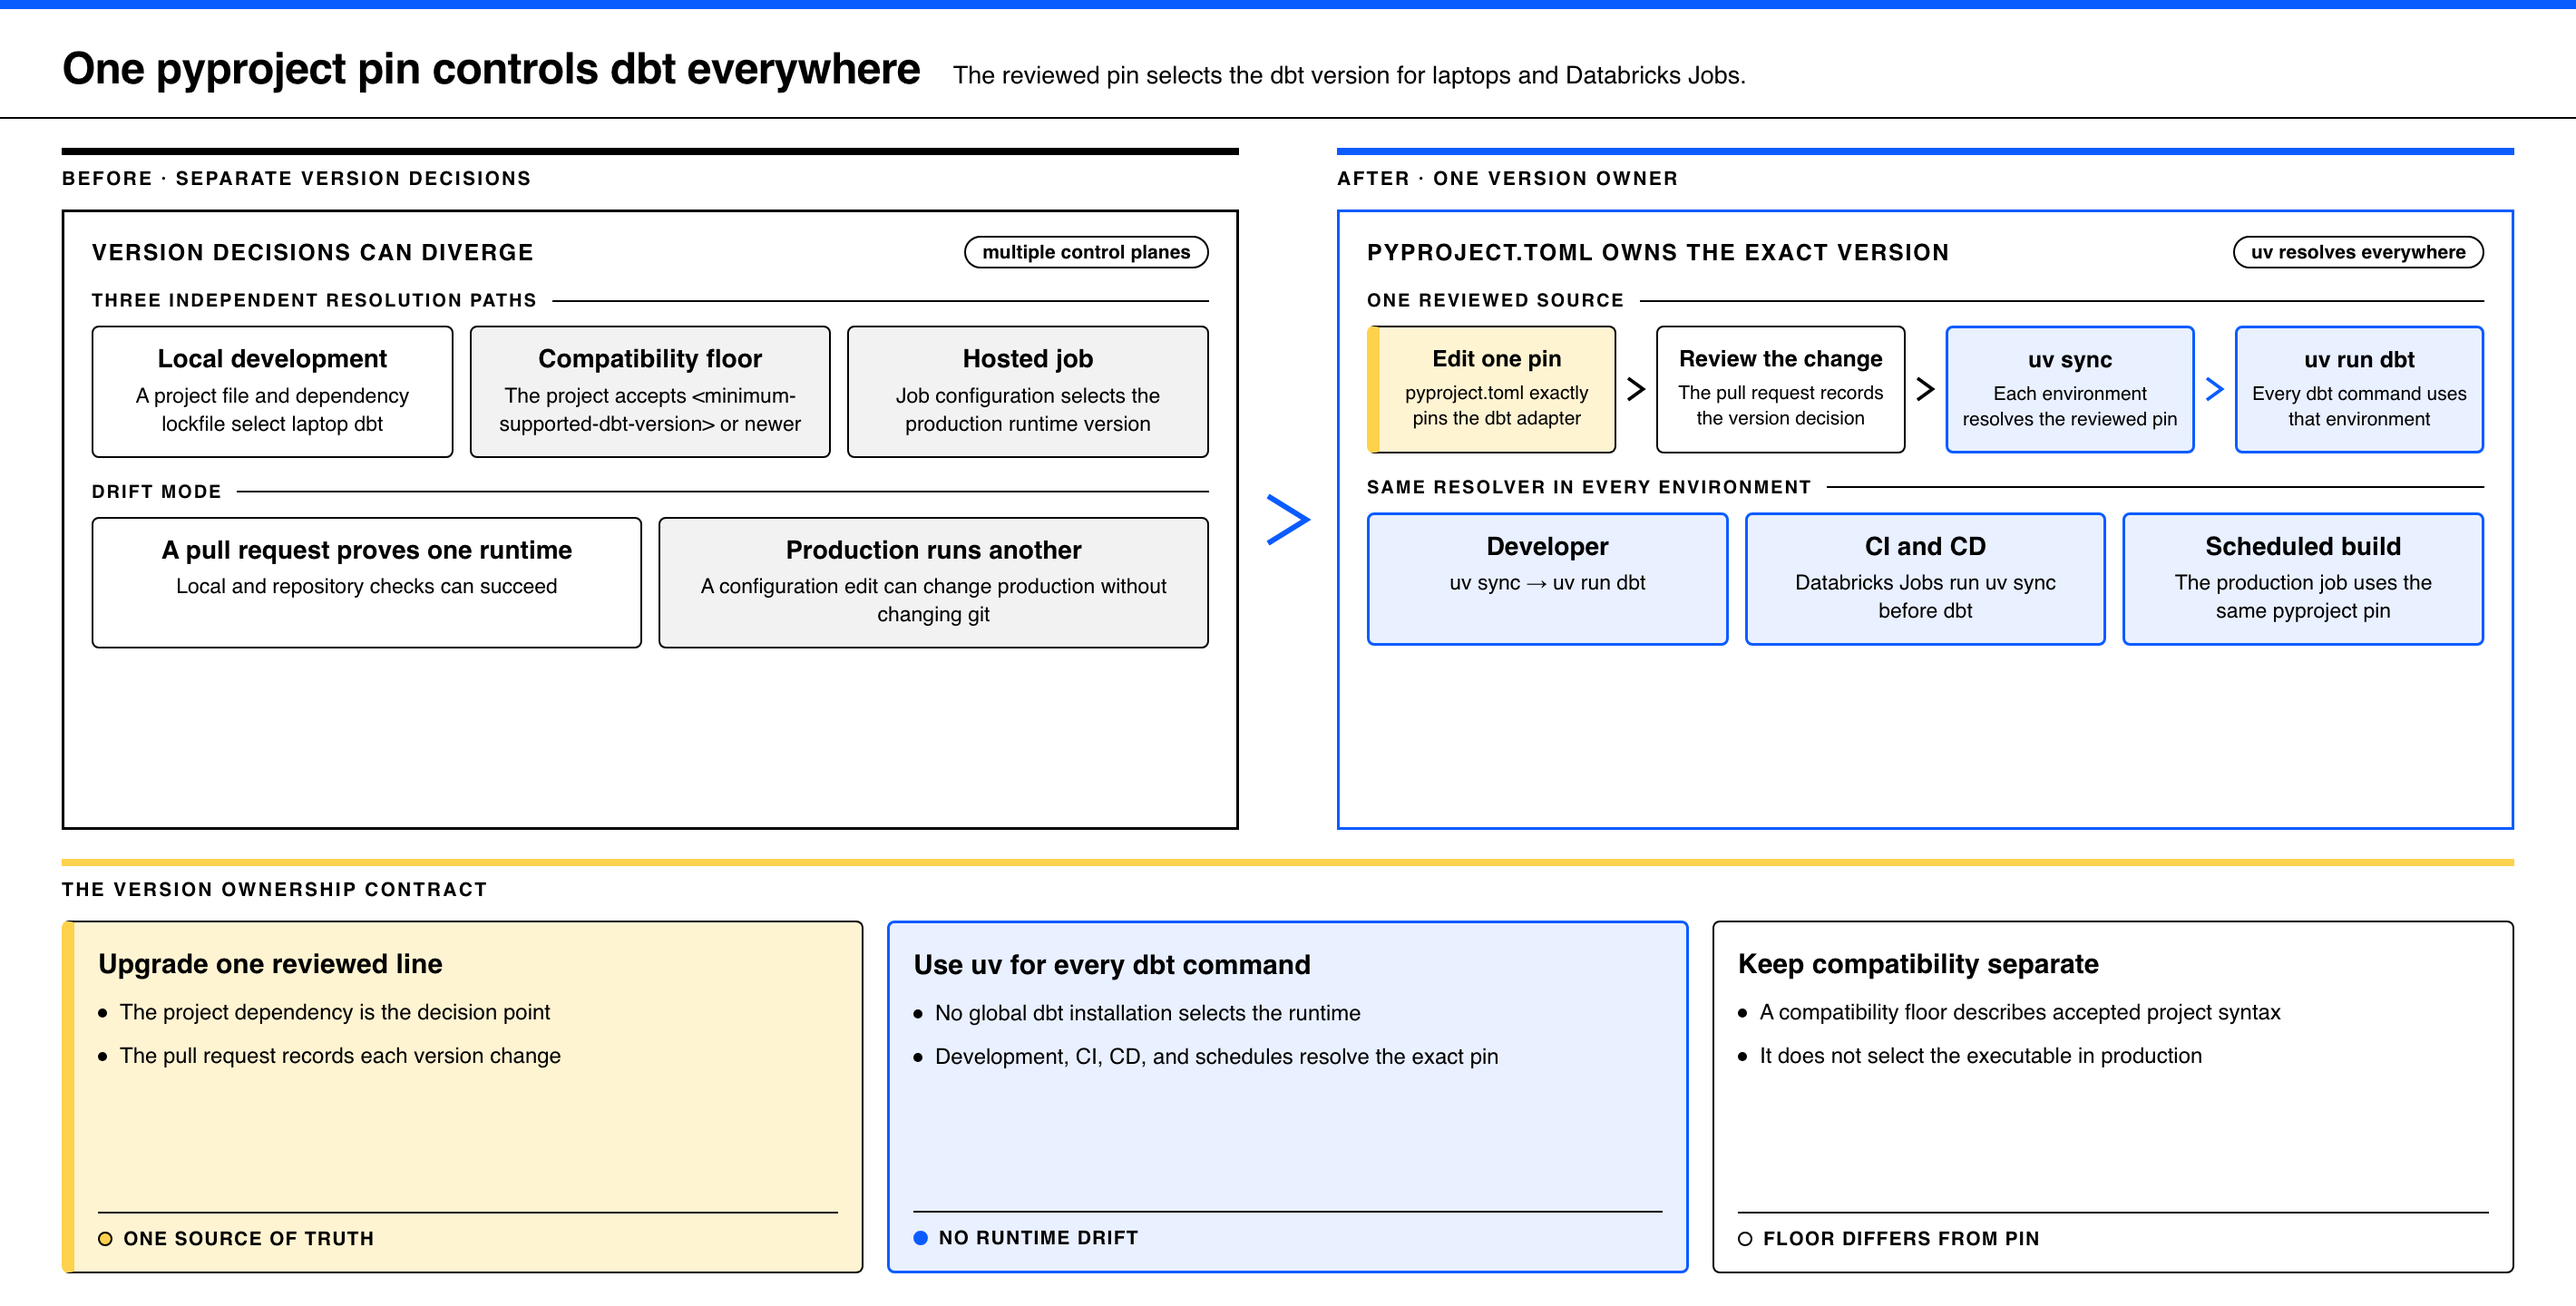
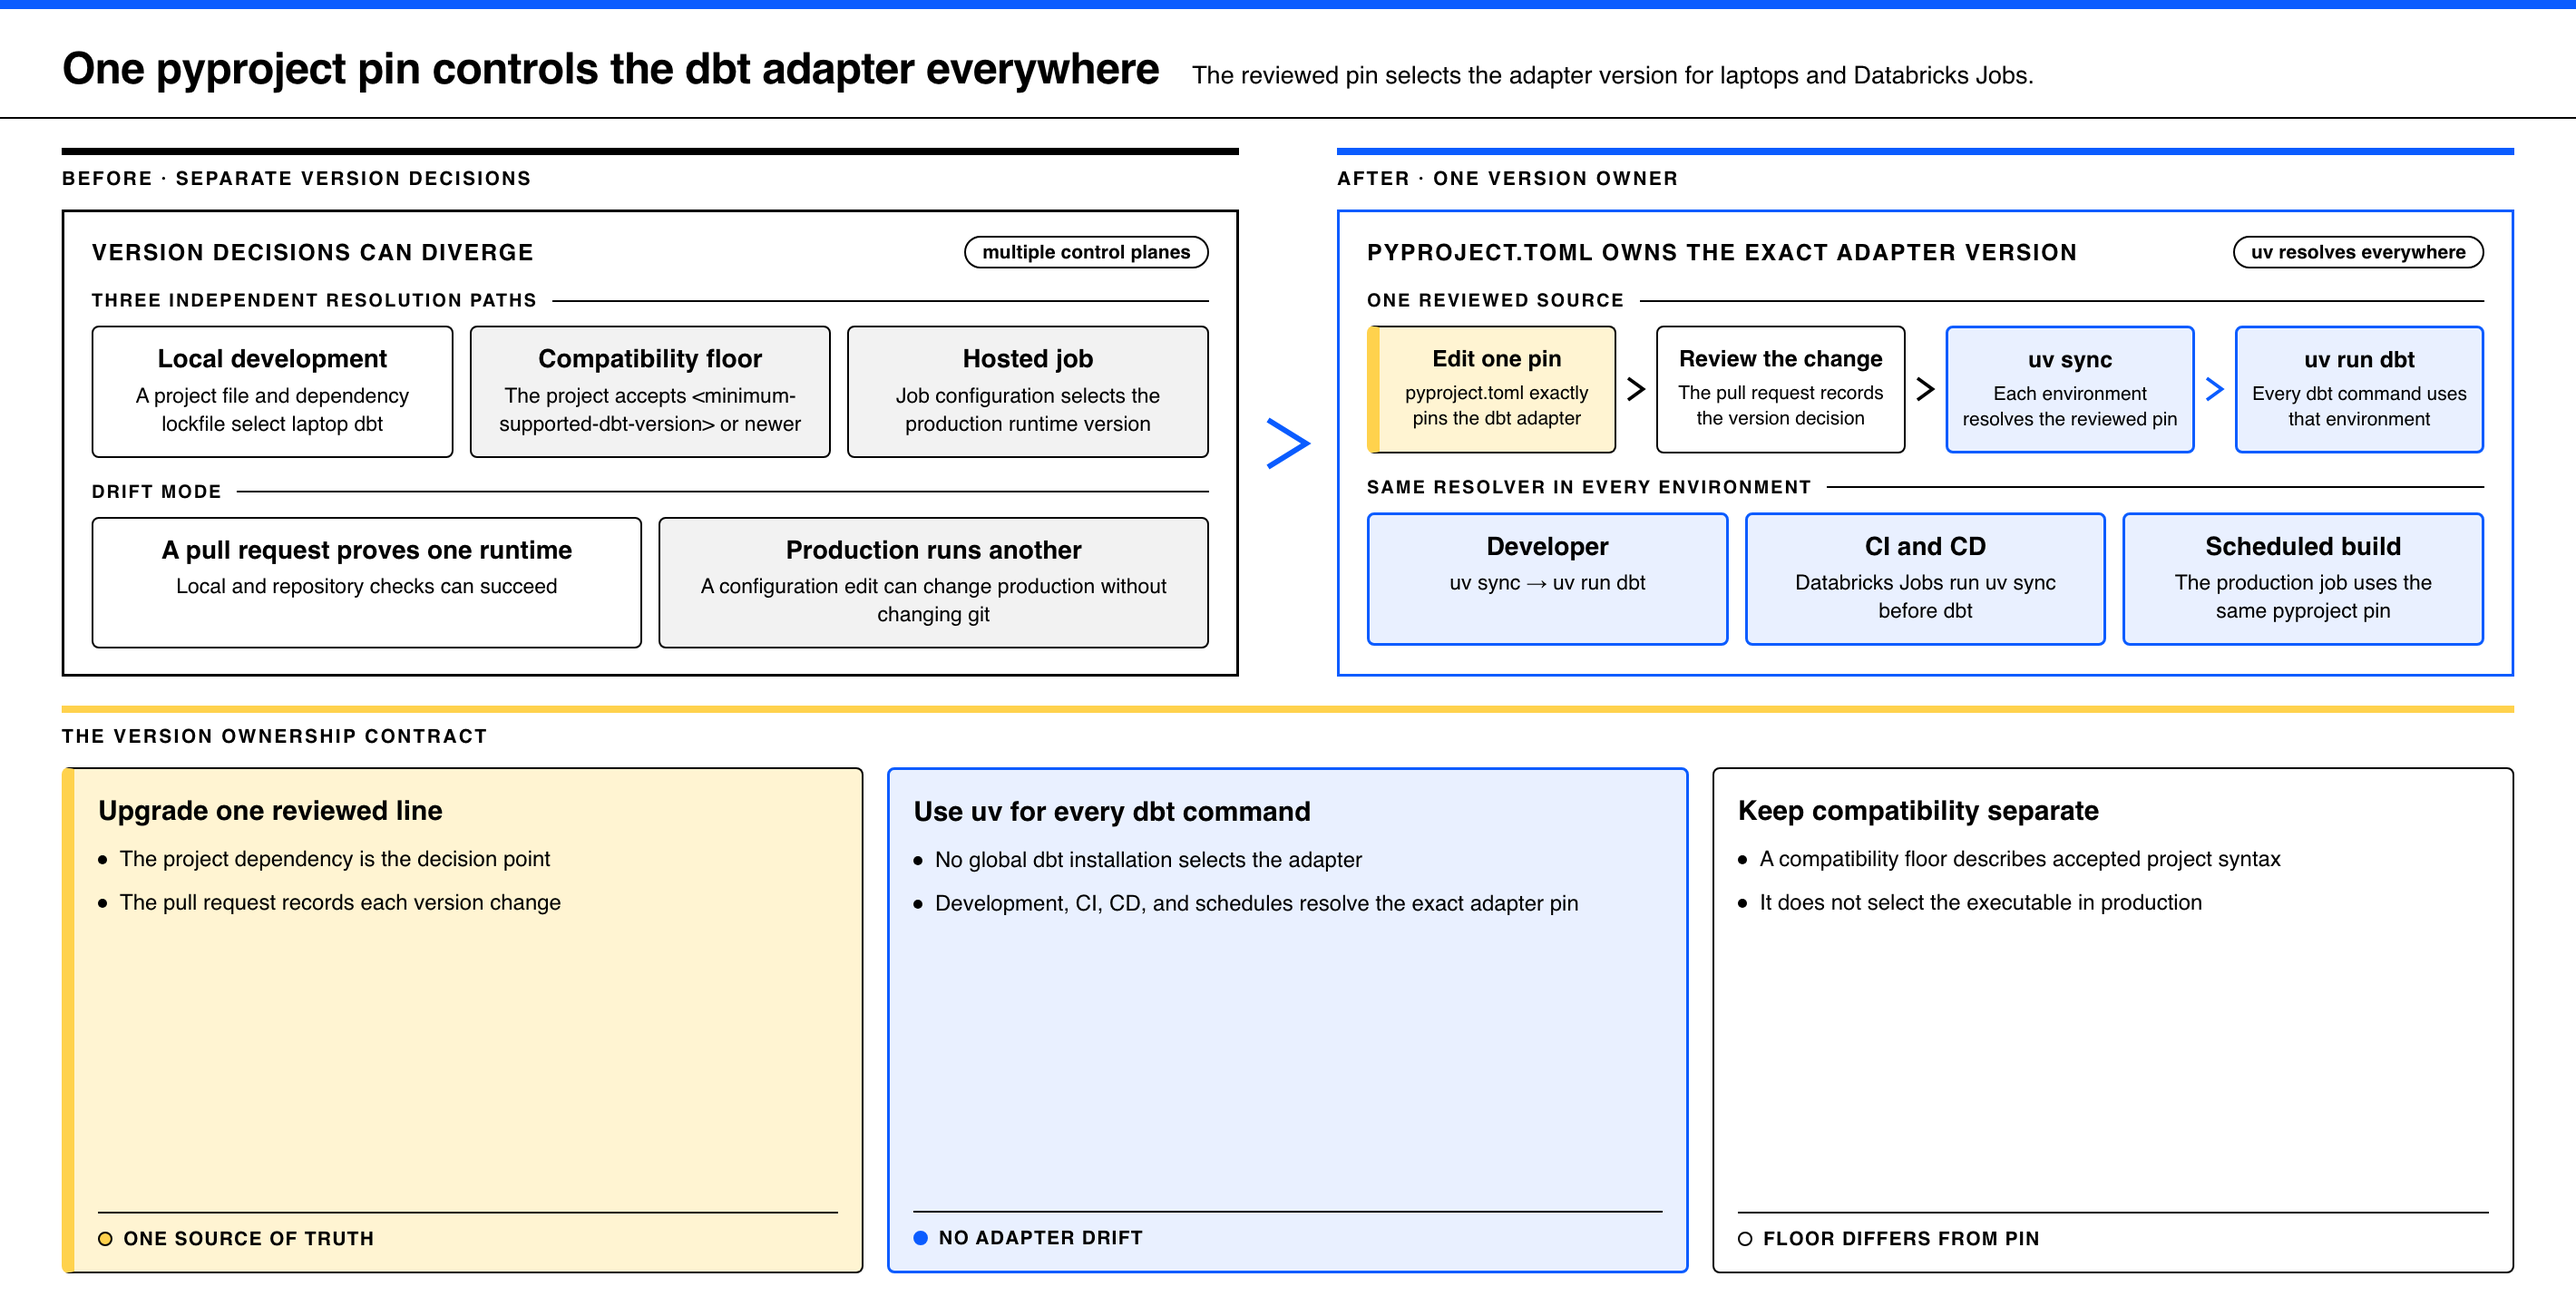
docs: address migration visual review
Narrow the guarantee to the exact dbt adapter pin, document unlocked transitive dependencies, remove forced panel height, and rewrite migration procedures with conditions first.

Refs #84

diff --git a/databricks/demos/dbt/docs/diagrams/dbt-version-ownership-migration.html b/databricks/demos/dbt/docs/diagrams/dbt-version-ownership-migration.html
@@ -6,7 +6,7 @@
 <head>
 <meta charset="utf-8">
 <meta name="viewport" content="width=device-width,initial-scale=1">
-<title>One pyproject pin controls dbt everywhere</title>
+<title>One pyproject pin controls the dbt adapter everywhere</title>
 <style>
 :root{
   --ink:#000000;--paper:#FFFFFF;--brand:#0B5CFF;--brand-tint:#E9F0FF;
@@ -42,7 +42,7 @@ body{width:var(--canvas-w);min-height:var(--canvas-h);background:var(--paper);co
 .node b{display:block;font-size:14px;line-height:1.2}.node span{display:block;font-size:11.5px;font-weight:400;line-height:1.35;margin-top:4px}
 .node.brand{background:var(--brand-tint);border:1.5px solid var(--brand)}.node.gate{background:var(--gate-tint);border-left:7px solid var(--gate)}.node.muted{background:var(--muted)}
 .chev{display:flex;align-items:center;justify-content:center}.chev svg{width:18px;height:18px}
-.compare{display:grid;grid-template-columns:minmax(0,1fr) 54px minmax(0,1fr);align-items:stretch}.compare>.group{min-height:342px}
+.compare{display:grid;grid-template-columns:minmax(0,1fr) 54px minmax(0,1fr);align-items:stretch}
 .transition{display:flex;align-items:center;justify-content:center}.transition svg{width:36px;height:36px}
 .mini-flow{display:grid;grid-template-columns:minmax(0,1fr) 22px minmax(0,1fr) 22px minmax(0,1fr) 22px minmax(0,1fr);align-items:stretch}
 .mini-flow .node{padding:10px 8px}.mini-flow .node b{font-size:12.5px}.mini-flow .node span{font-size:10.5px}
@@ -51,7 +51,7 @@ body{width:var(--canvas-w);min-height:var(--canvas-h);background:var(--paper);co
 </head>
 <body>
 <div class="brand-bar"></div>
-<div class="hd"><h1>One pyproject pin controls dbt everywhere</h1><p>The reviewed pin selects the dbt version for laptops and Databricks Jobs.</p></div>
+<div class="hd"><h1>One pyproject pin controls the dbt adapter everywhere</h1><p>The reviewed pin selects the adapter version for laptops and Databricks Jobs.</p></div>
 <div class="canvas">
   <div class="section">
     <div class="compare-kickers">
@@ -75,7 +75,7 @@ body{width:var(--canvas-w);min-height:var(--canvas-h);background:var(--paper);co
       </div>
       <div class="transition"><svg viewBox="0 0 36 36"><path d="M7,5 L28,18 L7,31" fill="none" stroke="#0B5CFF" stroke-width="3"/></svg></div>
       <div class="group brand">
-        <h3>pyproject.toml owns the exact version <span class="verb">uv resolves everywhere</span></h3>
+        <h3>pyproject.toml owns the exact adapter version <span class="verb">uv resolves everywhere</span></h3>
         <div class="subhead">One reviewed source</div>
         <div class="mini-flow">
           <div class="node gate"><b>Edit one pin</b><span>pyproject.toml exactly pins the dbt adapter</span></div>
@@ -99,7 +99,7 @@ body{width:var(--canvas-w);min-height:var(--canvas-h);background:var(--paper);co
     <div class="kicker gate">The version ownership contract</div>
     <div class="cols3" style="flex:1 1 auto">
       <div class="card gate"><h4>Upgrade one reviewed line</h4><ul><li>The project dependency is the decision point</li><li>The pull request records each version change</li></ul><div class="state"><span class="dot gate"></span>One source of truth</div></div>
-      <div class="card brand"><h4>Use uv for every dbt command</h4><ul><li>No global dbt installation selects the runtime</li><li>Development, CI, CD, and schedules resolve the exact pin</li></ul><div class="state"><span class="dot brand"></span>No runtime drift</div></div>
+      <div class="card brand"><h4>Use uv for every dbt command</h4><ul><li>No global dbt installation selects the adapter</li><li>Development, CI, CD, and schedules resolve the exact adapter pin</li></ul><div class="state"><span class="dot brand"></span>No adapter drift</div></div>
       <div class="card"><h4>Keep compatibility separate</h4><ul><li>A compatibility floor describes accepted project syntax</li><li>It does not select the executable in production</li></ul><div class="state"><span class="dot"></span>Floor differs from pin</div></div>
     </div>
   </div>

diff --git a/databricks/demos/dbt/docs/diagrams/slim-ci-migration.html b/databricks/demos/dbt/docs/diagrams/slim-ci-migration.html
@@ -42,7 +42,7 @@ body{width:var(--canvas-w);min-height:var(--canvas-h);background:var(--paper);co
 .node b{display:block;font-size:14px;line-height:1.2}.node span{display:block;font-size:11.5px;font-weight:400;line-height:1.35;margin-top:4px}
 .node.brand{background:var(--brand-tint);border:1.5px solid var(--brand)}.node.gate{background:var(--gate-tint);border-left:7px solid var(--gate)}.node.muted{background:var(--muted)}
 .chev{display:flex;align-items:center;justify-content:center}.chev svg{width:18px;height:18px}
-.compare{display:grid;grid-template-columns:minmax(0,1fr) 54px minmax(0,1fr);align-items:stretch}.compare>.group{min-height:342px}
+.compare{display:grid;grid-template-columns:minmax(0,1fr) 54px minmax(0,1fr);align-items:stretch}
 .transition{display:flex;align-items:center;justify-content:center}.transition svg{width:36px;height:36px}
 .mini-flow{display:grid;grid-template-columns:minmax(0,1fr) 22px minmax(0,1fr) 22px minmax(0,1fr) 22px minmax(0,1fr);align-items:stretch}
 .mini-flow .node{padding:10px 8px}.mini-flow .node b{font-size:12.5px}.mini-flow .node span{font-size:10.5px}

diff --git a/databricks/demos/dbt/docs/diagrams/state-based-cd-migration.html b/databricks/demos/dbt/docs/diagrams/state-based-cd-migration.html
@@ -42,7 +42,7 @@ body{width:var(--canvas-w);min-height:var(--canvas-h);background:var(--paper);co
 .node b{display:block;font-size:14px;line-height:1.2}.node span{display:block;font-size:11.5px;font-weight:400;line-height:1.35;margin-top:4px}
 .node.brand{background:var(--brand-tint);border:1.5px solid var(--brand)}.node.gate{background:var(--gate-tint);border-left:7px solid var(--gate)}.node.muted{background:var(--muted)}
 .chev{display:flex;align-items:center;justify-content:center}.chev svg{width:18px;height:18px}
-.compare{display:grid;grid-template-columns:minmax(0,1fr) 54px minmax(0,1fr);align-items:stretch}.compare>.group{min-height:342px}
+.compare{display:grid;grid-template-columns:minmax(0,1fr) 54px minmax(0,1fr);align-items:stretch}
 .transition{display:flex;align-items:center;justify-content:center}.transition svg{width:36px;height:36px}
 .mini-flow{display:grid;grid-template-columns:minmax(0,1fr) 22px minmax(0,1fr) 22px minmax(0,1fr) 22px minmax(0,1fr);align-items:stretch}
 .mini-flow .node{padding:10px 8px}.mini-flow .node b{font-size:12.5px}.mini-flow .node span{font-size:10.5px}

diff --git a/databricks/demos/dbt/docs/diagrams/scheduled-builds-migration.html b/databricks/demos/dbt/docs/diagrams/scheduled-builds-migration.html
@@ -49,7 +49,7 @@ body{width:var(--canvas-w);min-height:var(--canvas-h);background:var(--paper);co
 .node.brand{background:var(--brand-tint);border:1.5px solid var(--brand)}.node.muted{background:var(--muted)}
 .chev{display:flex;align-items:center;justify-content:center}.chev svg{width:18px;height:18px}
 .compare{display:grid;grid-template-columns:minmax(0,1fr) 54px minmax(0,1fr);align-items:stretch}
-.compare>.group{min-height:342px}.transition{display:flex;align-items:center;justify-content:center}.transition svg{width:36px;height:36px}
+.transition{display:flex;align-items:center;justify-content:center}.transition svg{width:36px;height:36px}
 .mini-flow{display:grid;grid-template-columns:minmax(0,1fr) 22px minmax(0,1fr) 22px minmax(0,1fr) 22px minmax(0,1fr);align-items:stretch}
 .mini-flow .node{padding:10px 8px}.mini-flow .node b{font-size:12.5px}.mini-flow .node span{font-size:10.5px}
 .compare-kickers{display:grid;grid-template-columns:minmax(0,1fr) 54px minmax(0,1fr)}.compare-kickers .after{grid-column:3}

diff --git a/databricks/demos/dbt/docs/ORCHESTRATION_MIGRATION_GUIDE.md b/databricks/demos/dbt/docs/ORCHESTRATION_MIGRATION_GUIDE.md
@@ -39,12 +39,15 @@ The job reads the production manifest and runs:
 uv run dbt build -s state:modified+ --defer --state prod_state --fail-fast
 ```
 
-Build the full project when the production manifest is absent or unreadable. This fallback
+If the production manifest is absent or unreadable, build the full project. This fallback
 prevents a missing state file from producing a false success.
 
-Give each run a schema such as
-`<test_catalog>.dbt_ci__pr_<pr_number>_<run_id>`. Clean the schema after a successful run.
-Keep failed schemas temporarily for investigation, then remove them during a later cleanup.
+For each run:
+
+1. Create a schema such as
+   `<test_catalog>.dbt_ci__pr_<pr_number>_<run_id>`.
+2. If the run succeeds, clean the schema.
+3. If the run fails, keep the schema for investigation. Remove it during a later cleanup.
 
 The CI service principal must have read-only access to the production state and relations.
 It must have write access only to the CI catalog.
@@ -59,27 +62,30 @@ Regenerate it with the `diagram` skill. The render command is in the file header
 Trigger one Databricks CD job after a reviewed change enters the production branch. The job
 deploys the production DAB with its production `run_as` identity.
 
-Next, run `state:modified+` against the previous production manifest. Build the full project
-when no previous manifest exists.
+If a previous production manifest exists, run `state:modified+` against it. If no previous
+manifest exists, build the full project.
 
 Write the merged manifest to the stable production state path. The new manifest becomes the
 reference for the next CI or CD run.
 
-## 4. Give uv ownership of the dbt version
+## 4. Give `pyproject.toml` ownership of the adapter version
 
-![One exact pyproject pin selects dbt in every environment](diagrams/dbt-version-ownership-migration.png)
+![One exact pyproject pin selects the dbt adapter in every environment](diagrams/dbt-version-ownership-migration.png)
 
 Source: [`diagrams/dbt-version-ownership-migration.html`](diagrams/dbt-version-ownership-migration.html).
 Regenerate it with the `diagram` skill. The render command is in the file header.
 
-Pin the dbt adapter exactly in `pyproject.toml`. Run `uv sync` before each dbt command in
-development and in every Databricks job.
+1. Pin the dbt adapter exactly in `pyproject.toml`.
+2. Before each dbt command, run `uv sync` in development and in every Databricks job.
+3. Run dbt through `uv run dbt`.
 
-Run dbt through `uv run dbt`. Do not use a global dbt installation as an implicit version
-source.
+Do not use a global dbt installation as an implicit version source.
 
 This project pins `dbt-databricks==1.12.4`. A version upgrade changes one reviewed line, and
-the same pin controls development, CI, CD, and scheduled production jobs.
+the same adapter pin controls development, CI, CD, and scheduled production jobs. Because
+this project does not commit `uv.lock`, compatible transitive dependencies can still change
+between resolutions. The exact guarantee applies to the adapter pin, not every installed
+package.
 
 ## Result
 

diff --git a/databricks/demos/dbt/docs/diagrams/README.md b/databricks/demos/dbt/docs/diagrams/README.md
@@ -17,7 +17,7 @@ Each was designed pain-first — start from "what's hard to grasp in prose," the
 | `scheduled-builds-migration.html` | Scheduled builds before and after migration | schedule, state, and docs ownership are difficult to compare across two control planes |
 | `slim-ci-migration.html` | Slim CI before and after migration | state deferral, schema isolation, and cleanup form one CI contract |
 | `state-based-cd-migration.html` | State-based CD before and after migration | deployment and state handoff must form one reviewable release path |
-| `dbt-version-ownership-migration.html` | dbt version ownership before and after migration | a compatibility floor and an executable pin solve different problems |
+| `dbt-version-ownership-migration.html` | dbt adapter-version ownership before and after migration | a compatibility floor and an executable pin solve different problems |
 
 `06` is a hand-authored SVG (renders directly on GitHub, no build step): each row is one
 environment, colored end-to-end — the branch, the principal it runs as, and the catalog it

diff --git a/databricks/demos/dbt/README.md b/databricks/demos/dbt/README.md
@@ -320,7 +320,7 @@ as, and which catalog it lands in:
 
 The [orchestration migration guide](docs/ORCHESTRATION_MIGRATION_GUIDE.md) shows the full
 move from external job settings to scheduled builds, Slim CI, state-based CD, and one
-uv-owned dbt version.
+uv-owned dbt adapter version.
 
 CI is **live**: [`.github/workflows/dbt-ci.yml`](../../../.github/workflows/dbt-ci.yml)
 builds and tests every PR that touches this project, into its own disposable schema:

diff --git a/databricks/demos/dbt/THE_ONE_TRUE_WAY.md b/databricks/demos/dbt/THE_ONE_TRUE_WAY.md
@@ -35,7 +35,7 @@ lifecycle. These are drafts, refined alongside this document.
 
 The [orchestration migration guide](docs/ORCHESTRATION_MIGRATION_GUIDE.md) connects four
 before-and-after diagrams. It covers scheduled builds, Slim CI, state-based CD, and dbt
-version ownership.
+adapter-version ownership.
 
 ## The principles
 
